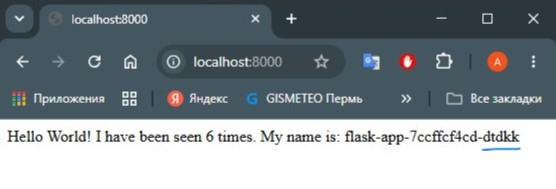
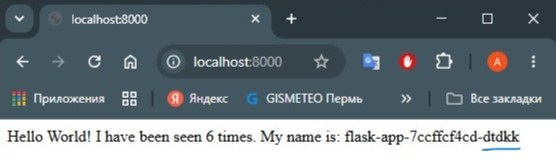
update pics and readme

diff --git a/README.md b/README.md
@@ -282,3 +282,70 @@ service-devops   LoadBalancer   10.102.5.192   10.0.2.15     8000:32501/TCP   5m
 ![alt text](./img/flask-check2.jpg)  
 Приложение отображает разные имена подов и увеличивающийся счетчик из redis.  
 
+## 2. Обновляем приложение flask+redis  
+
+### 2.1. Вносим изменения в приложение app.py  
+```bash
+$ git diff master -- ./flask_redis/app.py
+diff --git a/flask_redis/app.py b/flask_redis/app.py
+index 017d8eb..047bd72 100644
+--- a/flask_redis/app.py
++++ b/flask_redis/app.py
+@@ -20,4 +20,4 @@ def get_hit_count():
+ @app.route('/')
+ def hello():
+     count = get_hit_count()
+-    return 'Hello World! I have been seen {} times. My name is: {}\n'.format(count, socket.gethostname())
+\ No newline at end of file
++    return 'Hello World, VER: 2! I have been seen {} times. My name is: {}\n'.format(count, socket.gethostname())
+\ No newline at end of file
+```  
+### 2.2. обновляем манифест `flask_redis_k8s\flask.yml`  
+```bash
+git diff master -- ./flask_redis_k8s/flask.yml
+diff --git a/flask_redis_k8s/flask.yml b/flask_redis_k8s/flask.yml
+index c32db7f..ae28192 100644
+--- a/flask_redis_k8s/flask.yml
++++ b/flask_redis_k8s/flask.yml
+@@ -18,7 +18,7 @@ spec:
+     spec:
+       containers:
+         - name: flask
+-          image: flask:v1
++          image: flask:v2
+           imagePullPolicy: IfNotPresent
+           ports:
+           - containerPort: 5000
+```  
+Делаем git push на Windows-хосте, git pull на ВМ  
+### 2.3. Собираем новый образ flask:v2  
+`$ minikube image build -t flask:v2 flask_redis/`  
+### 2.4. Применяем изменения в кластере  
+```bash
+$ kubectl apply -f flask_redis_k8s/ && kubectl get pods
+service/service-devops unchanged
+deployment.apps/flask-app configured
+service/redis unchanged
+deployment.apps/redis unchanged
+NAME                         READY   STATUS              RESTARTS   AGE
+flask-app-7ccffcf4cd-7f2mb   1/1     Running             0          60m
+flask-app-7ccffcf4cd-g46mj   1/1     Terminating         0          31m
+flask-app-7ccffcf4cd-jlfl9   1/1     Running             0          46m
+flask-app-7ccffcf4cd-kr74l   1/1     Running             0          60m
+flask-app-7ccffcf4cd-lpnns   1/1     Running             0          46m
+flask-app-fb69c5d7f-555mj    0/1     ContainerCreating   0          3s
+flask-app-fb69c5d7f-729gl    0/1     ContainerCreating   0          2s
+flask-app-fb69c5d7f-w6lzb    0/1     Pending             0          1s
+redis-9f7d5587-dht2n         1/1     Running             0          60m
+```  
+Наблюдаем, как старые поды останавливаются, а новые создаются  
+![alt text](./img/freelens-roll-update.jpg)  
+### 2.5. Проверяем браузер  
+![alt text](./img/flask-check-v2-1.jpg)
+![alt text](./img/flask-check-v2-2.jpg)
+
+## 3. Останавливаем кластер  
+Снимаем нагрузку  
+`kubectl delete -f flask_redis_k8s/`  
+Останавливаем minikube  
+`minikube stop`  